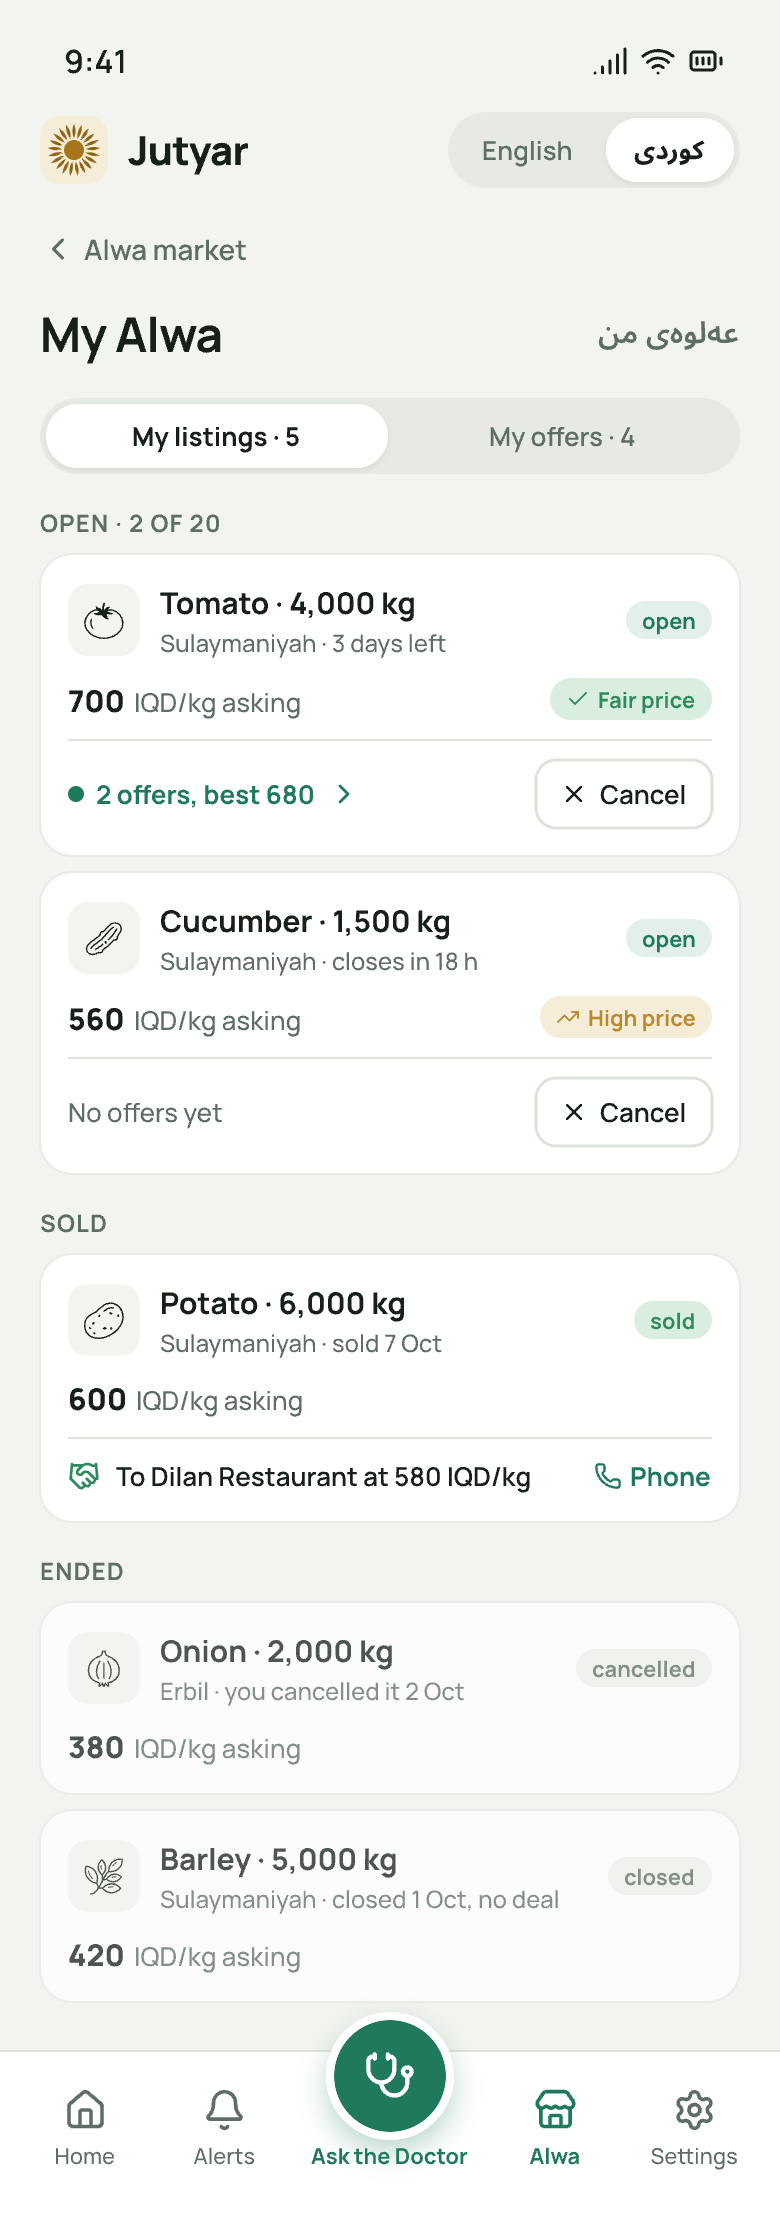
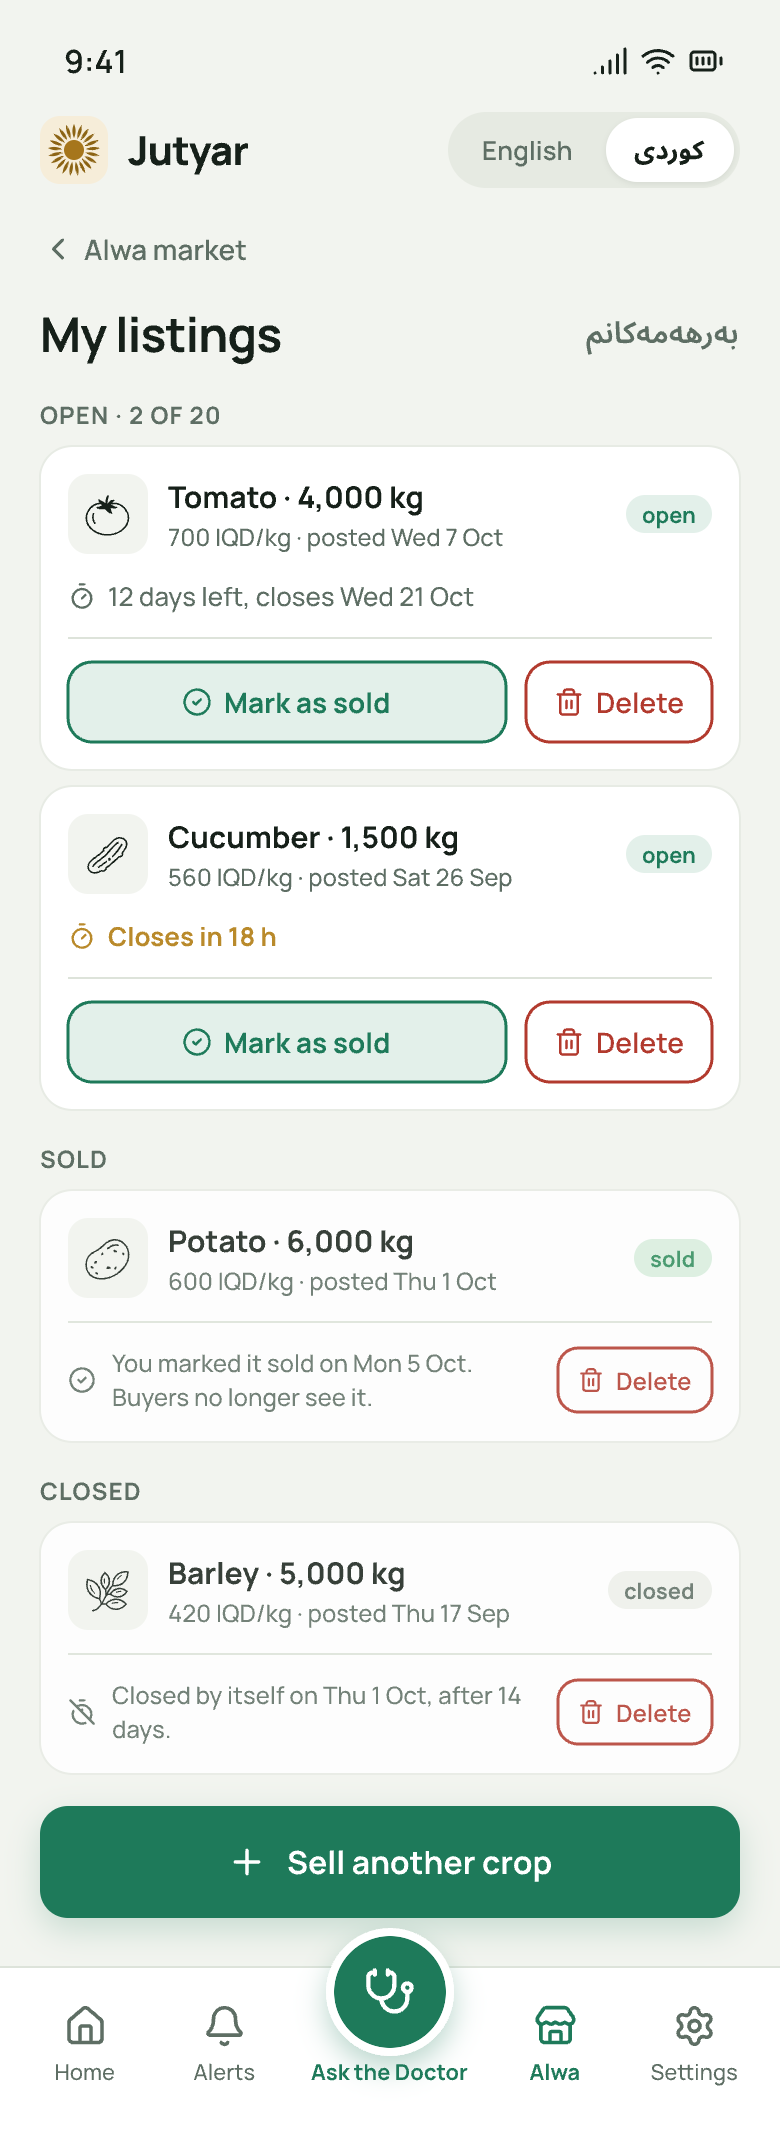
Design: Alwa redone as simple listings
- Alwa home: price board of the nearest alwa, crops for sale nearest first, crop chips, Call on each card
- Listing: small map with the pin, distance, posted, closes, seller's phone with a big Call button
- Sell a crop: crop, kg, IQD/kg, GPS location on a small map, closes in 14 days by default, phone read-only
- My listings: open, sold, closed with Mark as sold and Delete; states board trimmed to the four that remain
- Offer, my offers, seller view with Accept and deal done removed, with their previews (user decision, BACKEND.md 2.14)

diff --git a/STATUS.md b/STATUS.md
@@ -273,3 +273,4 @@
 - 2026-10-09 (16:41): Backend, website list A3 and A4: every farm carries governorate, zone_slug and sub_zone_slug from the centre of its outline and the 72 sub-district shapes (seeded from web/map_demo/kri_map_data.js, no simplification); filters and sort on the dashboard farm list; totals per governorate, district, sub-district and crop for staff, and a public version without sub-districts or personal data. Letters now state each farm's place. API version 1.6.0. Built by an agent in a private copy, merged; 1,528 unit tests pass; live run after the merge: a new farm got its place, the letter and both totals showed it. Found: the map file's Qaradagh shape contains Sulaymaniyah city centre and there is no centre sub-district, so a city farm is reported as qaradagh; the backend follows the map; raised in FRONTEND.md for the map's owner. Old farms need the one-time command backfill-farm-places after deploy.
 - 2026-10-09 (16:51): Backend, website list B3 and B4: inbox (farmers send messages with up to 4 photos kept in the database; staff read, set state, reply, delete; 20 messages per farmer per 24 hours under a lock) and app control (one settings row, version gate 426 update_required from the X-App-Version header, versions in use). Built by an agent in a private copy; the merge clashed with the earlier merges in the farm and farmer files and was resolved by hand. Then wired by me: messages show and filter by the farm's place; GET /v1/stats/farms reads the public_farm_totals switch from the app settings (the server setting STATS__PUBLIC_FARM_TOTALS is removed); version sightings no longer raise the public app_config topic; migrations listed in time order. 1,716 unit tests pass. Live run on a fresh database: message with a photo stored and read back identical, inbox filtered by district, reply seen by the farmer, 426 for an old app version but not for the config route or a call without the header, public totals 404 when switched off.
 - 2026-10-09 (16:51): **DECISION (user): Alwa in the app is simple listings.** A listing = crop, quantity, price, GPS point, seller phone (shown from the start, buyers call), posted, closes (14 days). No offers, grade, pickup or market picker; keep the price board, the 14-day close and the 20-listing limit because the backend has them. BACKEND.md 2.14 asks Arya for: `lat`/`lon` on listings, `seller_phone` on every listing, nearest-first with `distance_km`, a mark-as-sold route, a point on each market. Answer to FRONTEND.md 13.2 written.
+- 2026-10-09 (16:57): **App design: Alwa redone as simple listings in Pencil** (user decision of 16:51, BACKEND.md 2.14). Section "Alwa market" in `design/jutyar_app.pen` now has 4 screens and a states board. Alwa home: the price board of the alwa nearest the phone, then crops for sale near you, nearest first, crop filter chips; each card has crop, price, quantity, distance, time left and a Call button. Listing: crop, price, quantity, a small map with the pin and you, distance, posted, closes, the seller's phone with a big Call button. Sell a crop: crop, quantity in kg, price in IQD/kg (with today's alwa price as a hint), your current location from GPS on a small map, closes in (default 14 days), your phone read-only (buyers will call this number). My listings: open with Mark as sold and Delete, sold and closed with Delete. States: no prices posted today, no crops for sale near you, location off, too_many_listings. Deleted: make an offer, my offers, the seller view with Accept, deal done, and their PNGs. The Alwa tab stays. Previews `design/jutyar_alwa_*_preview.png`; the user saves the .pen with Cmd+S.

diff --git a/PROGRESS.md b/PROGRESS.md
@@ -2,11 +2,11 @@
 
 Short tracker of what is done, in progress and next. Updated with every change and committed. The detailed log with reasons and numbers is `STATUS.md`.
 
-Last update: 2026-10-09 16:51
+Last update: 2026-10-09 16:57
 
 ## Done
 - Website design in pen.dev, `design/web/jutyar_website.pen`: 30 frames (flow, intro, public View, login, 15 admin pages, states, phone, tablet, English), Kurdish first, real server data where it exists
-- Alwa market design in Pencil (2026-10-09), `design/jutyar_app.pen` section "Alwa market": 8 phone screens (home with price board and listings, listing, make an offer, my offers, sell a crop, my listings, my listing with Accept, deal done) and a board of empty and error states; Alwa is now a tab in the Tab Bar. Previews `design/jutyar_alwa_*_preview.png`. The user saves the .pen with Cmd+S
+- Alwa market design in Pencil (2026-10-09, simple listings per BACKEND.md 2.14), `design/jutyar_app.pen` section "Alwa market": home (price board of the nearest alwa, crops for sale nearest first, Call), listing (map pin, distance, seller's phone, Call), sell a crop (GPS location, 14 days default, phone read-only), my listings (Mark as sold, Delete) and a states board; Alwa is a tab in the Tab Bar. Previews `design/jutyar_alwa_*_preview.png`. The user saves the .pen with Cmd+S
 - Flutter app follows FRONTEND.md v4 (2026-10-09): the phone number is always checked before a code is sent, also in test mode; sign-in errors in words (429 countdown from retry_after_s, 503 try again, 422 check the number); Home shows a calm "10-day plan coming soon" for the plan route's 404; Ask the Doctor sends each photo as the type its bytes are (timeout of 120 s and per-part types were already right); Field history shows the groundwater topic as the wider area with source and as_of; an outline that touches itself at one point is refused with the existing message; area and inside_pct rounding checked (already rounded everywhere)
 - Control Room website `web/control_room/` (React + Vite): public View page and Admin behind a login, Kurdish (right to left) and English, phone to desktop; farmers and farms with create, edit, delete, support letter and government report; crop register and crop report; region data with hand corrections; alerts to everyone; inbox and news bar; the Doctor review, answer bank and problems map; Alwa read only with average prices; rules explained; app control; every text editable; data jobs status; settings. Sample data in the browser behind one data layer
 - Scope: Farm Doctor, 5 AIs + one Claude doctor, no long-range forecasts (`Scope_and_Build_Plan_FINAL.md`)
@@ -51,7 +51,7 @@ Last update: 2026-10-09 16:51
 - Map source: user dislikes the current map (asked for Google, then Leaflet). Leaflet map demo built in `web/map_demo/` for review
 
 ## Next
-- Flutter: Alwa market screens from `design/jutyar_app.pen` (design done 2026-10-09; backend routes built)
+- Flutter: Alwa market screens from `design/jutyar_app.pen` (simple listings, design done 2026-10-09; backend changes in BACKEND.md 2.14)
 - Write the Kurdish in `Desktop/Jutyar_Translation/jutyar_texts.xlsx`, then `npm run texts:import` in `web/control_room`
 - Flutter: Report, Alerts, Settings (Home and Ask the Doctor done; the Report button says "not built yet")
 - Flutter: Home labels to Sorani after a native speaker check
